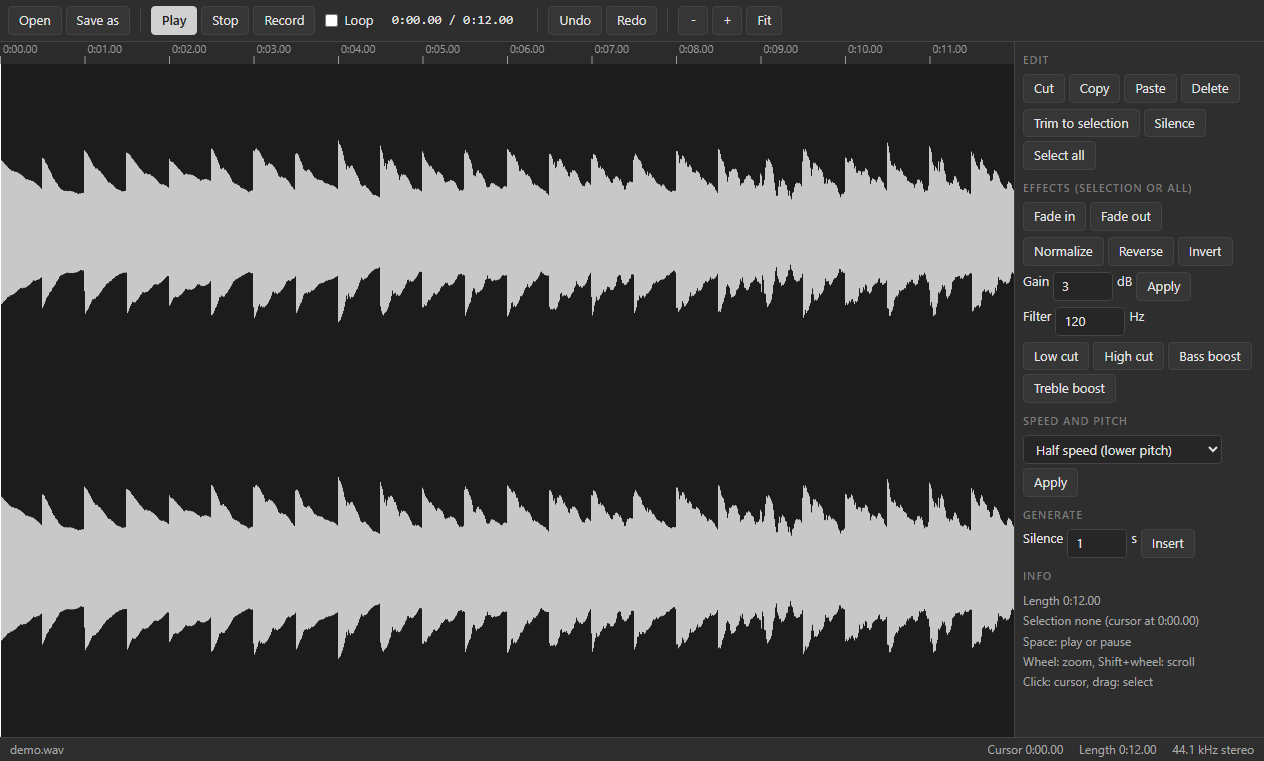
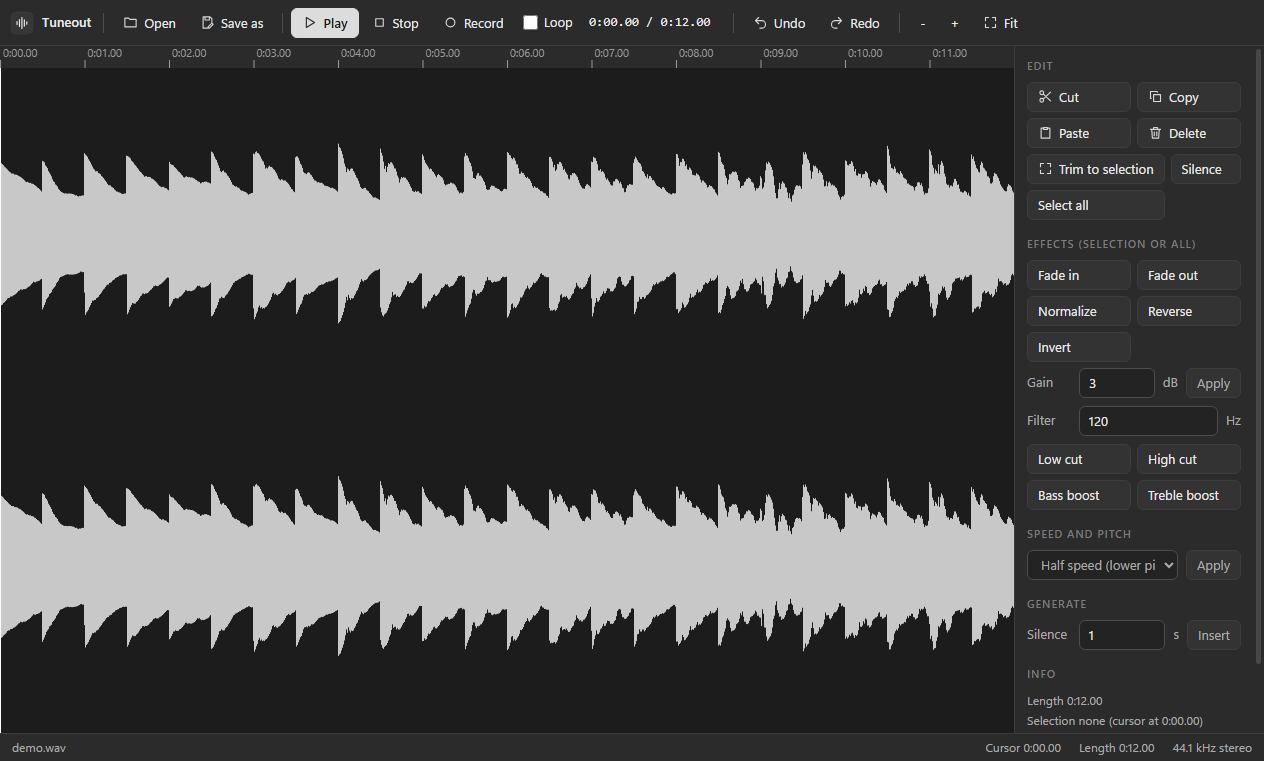
Tuneout 1.0.2: refreshed interface
Refreshed interface: line icons on every toolbar button, the app mark in the top bar, consistent control sizes and spacing, tidier side panels, and a toolbar that adapts to smaller windows. Also includes layout fixes and a fuller guide on the project page.

diff --git a/renderer/lookout.css b/renderer/lookout.css
@@ -1,62 +1,119 @@
-/* Lookout gray UI kit: flat, no glow, no gradients, no hue. */
+/* Lookout gray UI kit v2: flat, calm, no hue. Shared by every Lookout app. */
 :root{
-  --bg:#262626; --bg-2:#2e2e2e; --bg-3:#363636; --line:#444; --line-2:#555;
-  --text:#e4e4e4; --text-2:#a8a8a8; --text-3:#7c7c7c;
-  --accent:#d0d0d0; --accent-ink:#1c1c1c; --focus:#9a9a9a;
-  --radius:4px; --font:"Segoe UI",system-ui,-apple-system,sans-serif; --mono:Consolas,"Cascadia Mono",monospace;
+  --bg:#232323; --bg-2:#2b2b2b; --bg-3:#333333; --bg-4:#3b3b3b; --stage:#1c1c1c;
+  --line:#3d3d3d; --line-2:#4d4d4d; --line-3:#5c5c5c;
+  --text:#e8e8e8; --text-2:#ababab; --text-3:#7d7d7d;
+  --accent:#dcdcdc; --accent-ink:#1b1b1b; --focus:#a0a0a0;
+  --radius:6px; --h:30px;
+  --font:"Segoe UI Variable Text","Segoe UI",system-ui,-apple-system,sans-serif; --mono:Consolas,"Cascadia Mono",monospace;
 }
 *{box-sizing:border-box;margin:0;padding:0}
 html,body{height:100%;background:var(--bg);color:var(--text);font:13px/1.45 var(--font);overflow:hidden;user-select:none;-webkit-font-smoothing:antialiased}
 button,input,select,textarea{font:inherit;color:inherit}
 .app{display:grid;grid-template-rows:auto 1fr auto;height:100vh}
-.toolbar{display:flex;align-items:center;gap:4px;padding:6px 8px;background:var(--bg-2);border-bottom:1px solid var(--line);flex-wrap:wrap}
-.toolbar .sep{width:1px;align-self:stretch;background:var(--line);margin:2px 6px}
-.toolbar .grow{flex:1}
-.btn{background:var(--bg-3);border:1px solid var(--line);border-radius:var(--radius);padding:4px 10px;cursor:pointer;white-space:nowrap}
-.btn:hover{background:#404040;border-color:var(--line-2)}
+
+/* ---------- toolbar ---------- */
+.toolbar{display:flex;align-items:center;gap:2px;padding:7px 10px;min-height:46px;background:var(--bg-2);border-bottom:1px solid var(--line);flex-wrap:nowrap;overflow-x:auto;overflow-y:hidden;scrollbar-width:none}
+.toolbar::-webkit-scrollbar{height:0}
+.toolbar>*{flex-shrink:0}
+.toolbar .sep{width:1px;height:20px;align-self:center;background:var(--line-2);margin:0 6px}
+.toolbar .grow{flex:1 1 auto;min-width:8px}
+.toolbar input[type=text],.toolbar input[type=search]{width:170px}
+.brand{display:flex;align-items:center;gap:8px;padding-right:6px;margin-right:4px;font-weight:600;font-size:13px;color:var(--text)}
+.brand img{width:24px;height:24px;border-radius:6px;display:block}
+.brand+.sep{margin-left:0}
+
+/* ---------- buttons ---------- */
+.btn{display:inline-flex;align-items:center;justify-content:center;gap:6px;height:var(--h);padding:0 10px;background:var(--bg-3);border:1px solid var(--line);border-radius:var(--radius);cursor:pointer;white-space:nowrap;line-height:1;transition:background .08s,border-color .08s}
+.btn:hover{background:var(--bg-4);border-color:var(--line-2)}
 .btn:active{background:#2a2a2a}
-.btn:focus-visible,input:focus-visible,select:focus-visible,textarea:focus-visible,[tabindex]:focus-visible{outline:1px solid var(--focus);outline-offset:1px}
+.btn:focus-visible,input:focus-visible,select:focus-visible,textarea:focus-visible,[tabindex]:focus-visible{outline:2px solid var(--focus);outline-offset:1px}
 .btn.primary{background:var(--accent);color:var(--accent-ink);border-color:var(--accent);font-weight:600}
-.btn.primary:hover{background:#e0e0e0}
-.btn.on{background:#4a4a4a;border-color:var(--line-2)}
-.btn[disabled]{opacity:.4;pointer-events:none}
-.btn.icon{padding:4px 8px;min-width:30px;text-align:center}
-input[type=text],input[type=number],input[type=search],select,textarea{background:var(--bg);border:1px solid var(--line);border-radius:var(--radius);padding:4px 8px;user-select:text}
-input[type=range]{accent-color:#bdbdbd}
-input[type=color]{border:1px solid var(--line);background:var(--bg);width:28px;height:24px;padding:1px;border-radius:var(--radius)}
-label.field{display:flex;flex-direction:column;gap:3px;color:var(--text-2);font-size:12px}
-.main{display:flex;min-height:0}
-.sidebar{width:220px;background:var(--bg-2);border-right:1px solid var(--line);overflow:auto;padding:8px;flex-shrink:0}
-.sidebar.right{border-right:0;border-left:1px solid var(--line);width:250px}
-.sidebar h3,.panel-title{font-size:11px;text-transform:uppercase;letter-spacing:.08em;color:var(--text-3);margin:10px 0 6px;font-weight:600}
+.btn.primary:hover{background:#ececec;border-color:#ececec}
+.btn.on{background:#4a4a4a;border-color:var(--line-3);box-shadow:inset 0 0 0 1px #6a6a6a}
+.btn[disabled]{opacity:.38;pointer-events:none}
+.btn.icon{padding:0;width:var(--h);min-width:var(--h)}
+.btn .ic{width:15px;height:15px;flex-shrink:0;display:block;opacity:.92}
+.toolbar .btn:not(.primary):not(.on){background:transparent;border-color:transparent}
+.toolbar .btn:not(.primary):not(.on):hover{background:var(--bg-4);border-color:var(--line-2)}
+
+.toolbar.c1 .btn.minor:not(.primary):has(> svg.ic),.toolbar.c2 .btn:not(.primary):has(> svg.ic),.toolbar.c3 .btn:has(> svg.ic){font-size:0;gap:0;width:var(--h);padding:0}
+.toolbar.c2 .brand span{display:none}
+.toolbar.c2 input[type=text],.toolbar.c2 input[type=search]{width:120px}
+
+/* ---------- fields ---------- */
+input[type=text],input[type=number],input[type=search],input[type=date],select,textarea{background:var(--bg);border:1px solid var(--line-2);border-radius:var(--radius);padding:0 9px;height:var(--h);user-select:text;min-width:0}
+textarea{height:auto;padding:7px 9px;resize:vertical;line-height:1.45}
+select{padding-right:6px;cursor:pointer}
+input:hover,select:hover,textarea:hover{border-color:var(--line-3)}
+input[type=range]{accent-color:#c8c8c8;height:var(--h)}
+input[type=checkbox]{accent-color:#c8c8c8;width:15px;height:15px;cursor:pointer}
+input[type=color]{border:1px solid var(--line-2);background:var(--bg);width:30px;height:var(--h);padding:2px;border-radius:var(--radius)}
+label.field{display:flex;flex-direction:column;gap:4px;color:var(--text-2);font-size:12px}
+label.field>input,label.field>select,label.field>textarea{width:100%;color:var(--text);font-size:13px}
+
+/* ---------- layout ---------- */
+.main{display:flex;min-height:0;min-width:0}
+.sidebar{width:228px;background:var(--bg-2);border-right:1px solid var(--line);overflow:auto;padding:10px 12px 14px;flex-shrink:0}
+.sidebar.right{border-right:0;border-left:1px solid var(--line);width:272px}
+.sidebar h3,.panel-title{font-size:11px;text-transform:uppercase;letter-spacing:.08em;color:var(--text-3);margin:16px 0 8px;font-weight:600}
 .sidebar h3:first-child{margin-top:2px}
-.stage{flex:1;min-width:0;min-height:0;position:relative;background:#1f1f1f;overflow:auto}
-.status{display:flex;gap:16px;align-items:center;padding:3px 10px;background:var(--bg-2);border-top:1px solid var(--line);color:var(--text-2);font-size:12px}
+.sidebar input[type=text],.sidebar input[type=search],.sidebar select,.sidebar textarea{width:100%}
+.sidebar .row{flex-wrap:wrap}
+.sidebar .row>.btn{flex:1 1 auto}
+.sidebar .row>label.field{flex:1 1 0;min-width:0}
+.sidebar label.field{margin-bottom:10px}
+.sidebar .btn{width:auto}
+.sidebar>.btn{width:100%;margin-bottom:6px}
+.stage{flex:1;min-width:0;min-height:0;position:relative;background:var(--stage);overflow:auto}
+.status{display:flex;gap:18px;align-items:center;height:28px;padding:0 12px;background:var(--bg-2);border-top:1px solid var(--line);color:var(--text-2);font-size:12px;white-space:nowrap;overflow:hidden}
 .status .grow{flex:1}
 .list{display:flex;flex-direction:column;gap:2px}
-.list .item{padding:5px 8px;border-radius:var(--radius);cursor:pointer;border:1px solid transparent;display:flex;gap:6px;align-items:center}
+.list .item{padding:6px 8px;border-radius:var(--radius);cursor:pointer;border:1px solid transparent;display:flex;gap:6px;align-items:center;min-height:30px}
 .list .item:hover{background:var(--bg-3)}
-.list .item.sel{background:#444;border-color:var(--line-2)}
+.list .item.sel{background:var(--bg-4);border-color:var(--line-2)}
 .row{display:flex;gap:6px;align-items:center}
+.grow{flex:1 1 auto;min-width:0}
+.brow{display:grid;grid-template-columns:1fr 1fr;gap:6px;margin-bottom:6px}
+.brow>.btn{justify-content:flex-start}
+.frow{display:flex;align-items:center;gap:8px;margin-bottom:8px;color:var(--text-2)}
+.frow>input[type=text],.frow>input[type=number]{flex:1;color:var(--text)}
+.frow>span:first-child{min-width:44px}
+.frow>select{flex:1;min-width:0}
+.sidebar input[type=range]{width:100%}
+.sidebar .swatches{margin-bottom:10px}
+.list .item .btn{height:24px!important;width:26px!important;padding:0!important;font-size:0!important;gap:0;background:transparent;border-color:transparent;opacity:.55}
+.list .item:hover .btn,.list .item.sel .btn{opacity:1}
+.list .item .btn:hover{background:var(--bg-4);border-color:var(--line-2)}
 .col{display:flex;flex-direction:column;gap:6px}
 .muted{color:var(--text-2)}
-.empty{position:absolute;inset:0;display:flex;flex-direction:column;align-items:center;justify-content:center;gap:10px;color:var(--text-3);text-align:center;padding:20px}
-.empty .big{font-size:18px;color:var(--text-2)}
-.modal-back{position:fixed;inset:0;background:rgba(0,0,0,.55);display:flex;align-items:center;justify-content:center;z-index:50}
-.modal{background:var(--bg-2);border:1px solid var(--line-2);border-radius:6px;min-width:340px;max-width:80vw;max-height:85vh;overflow:auto;padding:16px;display:flex;flex-direction:column;gap:12px}
-.modal h2{font-size:15px;font-weight:600}
-.toast{position:fixed;left:50%;bottom:34px;transform:translateX(-50%);background:var(--bg-3);border:1px solid var(--line-2);padding:7px 14px;border-radius:var(--radius);z-index:60}
-.progress{height:6px;background:var(--bg);border:1px solid var(--line);border-radius:3px;overflow:hidden}
-.progress>i{display:block;height:100%;background:var(--accent);width:0}
-table.grid{border-collapse:collapse;width:100%}
-table.grid th,table.grid td{border:1px solid var(--line);padding:4px 8px;text-align:left}
-table.grid th{background:var(--bg-2);color:var(--text-2);font-weight:600}
-::-webkit-scrollbar{width:11px;height:11px}
-::-webkit-scrollbar-thumb{background:#4a4a4a;border:2px solid var(--bg);border-radius:6px}
-::-webkit-scrollbar-track{background:var(--bg)}
-.swatches{display:flex;flex-wrap:wrap;gap:4px}
-.swatches button{width:22px;height:22px;border:1px solid var(--line-2);border-radius:3px;cursor:pointer;padding:0}
-.swatches button.on{outline:2px solid var(--accent);outline-offset:1px}
-.progress>div{display:block;height:100%;background:var(--accent)}
-table.grid tr.sel td{background:#3a3a3a}
+.empty{position:absolute;inset:0;display:flex;flex-direction:column;align-items:center;justify-content:center;gap:12px;color:var(--text-3);text-align:center;padding:24px}
+.empty .big{font-size:18px;color:var(--text-2);font-weight:600}
+
+/* ---------- overlays ---------- */
+.modal-back{position:fixed;inset:0;background:rgba(0,0,0,.6);display:flex;align-items:center;justify-content:center;z-index:50}
+.modal{background:var(--bg-2);border:1px solid var(--line-2);border-radius:10px;min-width:360px;max-width:80vw;max-height:85vh;overflow:auto;padding:20px;display:flex;flex-direction:column;gap:14px;box-shadow:0 18px 50px rgba(0,0,0,.5)}
+.modal h2{font-size:16px;font-weight:600}
+.toast{position:fixed;left:50%;bottom:40px;transform:translateX(-50%);background:var(--bg-4);border:1px solid var(--line-3);padding:9px 16px;border-radius:8px;z-index:60;box-shadow:0 8px 24px rgba(0,0,0,.4)}
+.progress{height:6px;background:var(--bg);border:1px solid var(--line);border-radius:4px;overflow:hidden}
+.progress>i,.progress>div{display:block;height:100%;background:var(--accent);width:0}
+
+/* ---------- tables ---------- */
+table.grid{border-collapse:separate;border-spacing:0;width:100%}
+table.grid th,table.grid td{border-bottom:1px solid var(--line);padding:0 12px;height:38px;text-align:left;vertical-align:middle}
+table.grid th{background:var(--bg-2);color:var(--text-2);font-weight:600;font-size:12px;position:sticky;top:0;z-index:1;height:34px}
+table.grid tbody tr:hover td{background:#262626}
+table.grid tr.sel td{background:#353535}
 table.grid tbody tr{cursor:default}
+table.grid td .btn{height:26px;margin-left:8px;vertical-align:middle}
+table.grid td{white-space:nowrap}
+
+/* ---------- misc ---------- */
+::-webkit-scrollbar{width:11px;height:11px}
+::-webkit-scrollbar-thumb{background:#474747;border:3px solid transparent;background-clip:padding-box;border-radius:8px}
+::-webkit-scrollbar-thumb:hover{background:#5a5a5a;background-clip:padding-box;border:3px solid transparent}
+::-webkit-scrollbar-track,::-webkit-scrollbar-corner{background:transparent}
+.swatches{display:flex;flex-wrap:wrap;gap:6px}
+.swatches button{width:24px;height:24px;border:1px solid var(--line-3);border-radius:5px;cursor:pointer;padding:0}
+.swatches button.on{outline:2px solid var(--accent);outline-offset:2px}
+kbd{font-family:var(--mono);font-size:11px;background:var(--bg-3);border:1px solid var(--line-2);border-bottom-width:2px;border-radius:4px;padding:0 5px}

diff --git a/renderer/kit.js b/renderer/kit.js
@@ -1,0 +1,137 @@
+// Lookout UI kit: adds the app mark to the toolbar and monochrome line icons to buttons.
+// Purely visual. Buttons keep their text, so nothing else changes.
+(function () {
+  'use strict';
+  const NS = 'http://www.w3.org/2000/svg';
+  const P = {
+    plus: 'M12 5v14M5 12h14',
+    file: 'M14 3H6v18h12V7zM14 3v4h4M12 11v6M9 14h6',
+    folder: 'M3 7V5h6l2 2h10v12H3z',
+    save: 'M5 3h11l3 3v15H5zM8 3v5h7V3M8 21v-7h8v7',
+    saveas: 'M5 3h11l3 3v6M5 3v18h7M8 3v5h7V3M15 21l6-6-2-2-6 6v2z',
+    undo: 'M9 14L4 9l5-5M4 9h10a6 6 0 010 12h-3',
+    redo: 'M15 14l5-5-5-5M20 9H10a6 6 0 000 12h3',
+    trash: 'M4 7h16M10 11v6M14 11v6M6 7l1 14h10l1-14M9 7V4h6v3',
+    copy: 'M9 9h11v11H9zM5 15H4V4h11v1',
+    paste: 'M9 4h6v3H9zM8 5H5v16h14V5h-3',
+    dup: 'M8 8h12v12H8zM4 16V4h12M14 11v6M11 14h6',
+    download: 'M12 4v11M7 10l5 5 5-5M5 20h14',
+    fit: 'M4 9V4h5M15 4h5v5M20 15v5h-5M9 20H4v-5',
+    play: 'M7 4l13 8-13 8z',
+    stop: 'M6 6h12v12H6z',
+    pause: 'M7 5h3v14H7zM14 5h3v14h-3z',
+    rec: 'M12 5a7 7 0 100 14 7 7 0 000-14z',
+    scissors: 'M6 9a3 3 0 100-6 3 3 0 000 6zM6 21a3 3 0 100-6 3 3 0 000 6zM8.2 7.8L20 19M8.2 16.2L20 5',
+    pointer: 'M5 3l14 7-6 2-2 6z',
+    hand: 'M8 13V6a1.5 1.5 0 013 0v5M11 11V4.5a1.5 1.5 0 013 0V11M14 11V6a1.5 1.5 0 013 0v8a7 7 0 01-7 7 6 6 0 01-5-3l-2.5-4.5a1.5 1.5 0 012.6-1.5L8 15',
+    connector: 'M5 19L19 5M13 5h6v6',
+    frame: 'M7 3v18M17 3v18M3 7h18M3 17h18',
+    rect: 'M4 6h16v12H4z',
+    ellipse: 'M12 5c4.4 0 8 3.1 8 7s-3.6 7-8 7-8-3.1-8-7 3.6-7 8-7z',
+    line: 'M5 19L19 5',
+    text: 'M5 6V4h14v2M12 4v16M9 20h6',
+    highlight: 'M14 4l6 6-8 8H6v-6zM4 21h16',
+    pen: 'M4 20l4-1 11-11-3-3L5 16zM14 7l3 3',
+    redact: 'M4 8h16v8H4z',
+    sign: 'M3 17c3-6 5-9 7-9 3 0-2 9 1 9 2 0 3-3 5-3s1 3 5 3M3 21h18',
+    eraser: 'M8 20l-4-4 10-10 6 6-10 8zM12 20h8',
+    search: 'M11 4a7 7 0 100 14 7 7 0 000-14zM16 16l5 5',
+    list: 'M9 6h11M9 12h11M9 18h11M4 6h.01M4 12h.01M4 18h.01',
+    child: 'M5 4v8a3 3 0 003 3h11M15 11l4 4-4 4',
+    sibling: 'M5 6h14M5 12h14M12 15v6M9 18h6',
+    collapse: 'M6 9l6 6 6-6',
+    expand: 'M7 14l5-5 5 5',
+    calendar: 'M4 6h16v14H4zM4 10h16M8 3v5M16 3v5',
+    diamond: 'M12 3l9 9-9 9-9-9z',
+    up: 'M12 19V5M6 11l6-6 6 6',
+    down: 'M12 5v14M6 13l6 6 6-6',
+    refresh: 'M20 11a8 8 0 10-2.3 5.7M20 4v7h-7',
+    check: 'M4 12l5 5L20 6',
+    convert: 'M4 8h13M13 4l4 4-4 4M20 16H7M11 12l-4 4 4 4',
+    eye: 'M2 12s4-7 10-7 10 7 10 7-4 7-10 7S2 12 2 12zM12 9a3 3 0 100 6 3 3 0 000-6z',
+    info: 'M12 3a9 9 0 100 18 9 9 0 000-18zM12 11v6M12 7.5h.01',
+    front: 'M8 8h12v12H8zM4 4h10v3M4 4v10h3',
+    back: 'M4 4h12v12H4zM20 8v12H8v-4',
+    merge: 'M6 3v6a6 6 0 006 6h6M15 12l3 3-3 3M6 21v-4',
+    rotl: 'M4 10a8 8 0 112 6M4 4v6h6',
+    rotr: 'M20 10a8 8 0 10-2 6M20 4v6h-6',
+    blank: 'M6 3h12v18H6z',
+    extract: 'M14 3H6v18h12V7zM14 3v4h4M12 10v7M9 14l3 3 3-3',
+    mic: 'M12 3a3 3 0 00-3 3v6a3 3 0 006 0V6a3 3 0 00-3-3zM6 11a6 6 0 0012 0M12 17v4',
+    clear: 'M6 6l12 12M18 6L6 18',
+    gaps: 'M3 6v12M21 6v12M7 12h10M10 9l-3 3 3 3M14 9l3 3-3 3',
+    title: 'M4 5h16v14H4zM8 9h8M12 9v7',
+    dashed: 'M4 12h3M10 12h4M17 12h3',
+    arrow: 'M4 12h15M14 7l5 5-5 5',
+    elbow: 'M4 6h8v12h8',
+    label: 'M3 12l6-7h12v14H9zM8 12h.01',
+    image: 'M4 5h16v14H4zM4 16l5-5 4 4 3-3 4 4M15 9h.01',
+    vector: 'M5 19L12 5l7 14M8 13h8M3 19h4M17 19h4',
+    table: 'M4 5h16v14H4zM4 10h16M4 15h16M10 5v14',
+    lock: 'M6 11h12v9H6zM8 11V8a4 4 0 018 0v3',
+    unlock: 'M6 11h12v9H6zM8 11V8a4 4 0 017.5-2',
+    eyeoff: 'M3 3l18 18M10.6 6.1A10 10 0 0112 6c6 0 10 6 10 6a17 17 0 01-3 3.6M6.6 6.6C3.8 8.3 2 12 2 12s4 7 10 7a9.7 9.7 0 004.4-1',
+  };
+  const MAP = {
+    'New': 'file', 'Open': 'folder', 'Open project': 'folder', 'Open file': 'folder', 'Save': 'save', 'Save project': 'save', 'Save as': 'saveas',
+    'Undo': 'undo', 'Redo': 'redo', 'Delete': 'trash', 'Delete clip': 'trash', 'Remove selected': 'trash', 'Copy': 'copy', 'Paste': 'paste', 'Duplicate': 'dup',
+    'Export PNG': 'image', 'Export SVG': 'vector', 'Export CSV': 'table', 'Export': 'download', 'Export page as PNG': 'download', 'Extract all text': 'text',
+    'Fit': 'fit', 'Play': 'play', 'Stop': 'stop', 'Pause': 'pause', 'Resume': 'play', 'Record': 'rec', 'Split': 'scissors', 'Split here': 'scissors',
+    'Select': 'pointer', 'Move': 'pointer', 'Hand': 'hand', 'Connector': 'connector', 'Frame': 'frame', 'Rectangle': 'rect', 'Box': 'rect', 'Ellipse': 'ellipse', 'Line': 'line', 'Text': 'text',
+    'Highlight': 'highlight', 'Pen': 'pen', 'Redact': 'redact', 'Sign': 'sign', 'Erase': 'eraser', 'Preview': 'eye', 'Outline': 'list',
+    'Add child': 'child', 'Add sibling': 'sibling', 'Edit': 'pen', 'Collapse': 'collapse', 'Expand all': 'expand', 'Today': 'calendar',
+    'Add task': 'plus', 'Add milestone': 'diamond', 'Move up': 'up', 'Move down': 'down', 'Up': 'up', 'Down': 'down',
+    'Import media': 'plus', 'Add files': 'plus', 'Output folder': 'folder', 'Convert all': 'convert', 'Clear finished': 'clear', 'Show': 'folder', 'Show in folder': 'folder',
+    'Check file': 'check', 'Repair to new file': 'download', 'Refresh sources': 'refresh', 'Start recording': 'rec', 'Stop and review': 'stop', 'New recording': 'rec',
+    'Check for updates': 'refresh', 'Info': 'info', 'Merge': 'merge', 'Rotate L': 'rotl', 'Rotate R': 'rotr', 'Blank': 'blank', 'Extract': 'extract',
+    'Front': 'front', 'Back': 'back', 'Close gaps': 'gaps', 'Title text': 'title', 'Dashed': 'dashed', 'Arrow on/off': 'arrow', 'Straight / Elbow': 'elbow', 'Edit label': 'label',
+    'Cut': 'scissors', 'Trim to selection': 'fit', 'Locate missing files': 'search',
+  };
+  const LMAP = { 'Hide': 'eye', 'Show': 'eyeoff', 'Lock': 'unlock', 'Unlock': 'lock' };
+  function icon(name) {
+    const s = document.createElementNS(NS, 'svg');
+    s.setAttribute('viewBox', '0 0 24 24'); s.setAttribute('class', 'ic'); s.setAttribute('aria-hidden', 'true');
+    s.setAttribute('fill', 'none'); s.setAttribute('stroke', 'currentColor'); s.setAttribute('stroke-width', '1.8');
+    s.setAttribute('stroke-linecap', 'round'); s.setAttribute('stroke-linejoin', 'round');
+    const p = document.createElementNS(NS, 'path'); p.setAttribute('d', P[name]); s.append(p);
+    return s;
+  }
+  function decorate(b) {
+    if (b.tagName !== 'BUTTON' || !b.classList.contains('btn')) return;
+    const label = (b.textContent || '').trim();
+    const name = (b.closest('.list') && LMAP[label]) || MAP[label];
+    const cur = b.querySelector(':scope > svg.ic');
+    if (cur && cur.dataset.for === label) return;
+    if (cur) cur.remove();
+    if (!name) return;
+    const s = icon(name); s.dataset.for = label; b.prepend(s);
+    if (!b.title) b.title = label;
+  }
+  function brand(bar) {
+    if (!bar || bar.querySelector(':scope > .brand') || (document.title && (bar.textContent || '').includes(document.title))) return;
+    const name = document.title || '';
+    const d = document.createElement('div'); d.className = 'brand';
+    const img = document.createElement('img'); img.src = 'brand.svg'; img.alt = '';
+    const t = document.createElement('span'); t.textContent = name;
+    d.append(img, t);
+    const sep = document.createElement('span'); sep.className = 'sep';
+    bar.prepend(d, sep);
+  }
+  const MINOR = new Set(['New', 'Open', 'Undo', 'Redo', 'Copy', 'Paste', 'Duplicate', 'Delete', 'Front', 'Back', 'Fit', 'Hand', 'Merge', 'Move up', 'Move down', 'Today', 'Cut', 'Dashed', 'Arrow on/off', 'Straight / Elbow', 'Edit label', 'Output folder', 'Remove selected', 'Clear finished', 'Refresh sources', 'Stop', 'Collapse', 'Expand all', 'Select', 'Move']);
+  function fitBar(bar) {
+    bar.classList.remove('c1', 'c2', 'c3');
+    bar.querySelectorAll(':scope > .btn').forEach((b) => b.classList.toggle('minor', MINOR.has((b.textContent || '').trim())));
+    for (const c of ['c1', 'c2', 'c3']) { if (bar.scrollWidth <= bar.clientWidth + 1) break; bar.classList.add(c); }
+  }
+  window.addEventListener('resize', () => { const bar = document.querySelector('.app > .toolbar'); if (bar) fitBar(bar); });
+  let queued = false;
+  function sweep() {
+    queued = false;
+    document.querySelectorAll('.btn').forEach(decorate);
+    const bar = document.querySelector('.app > .toolbar');
+    if (bar && bar.children.length) { brand(bar); fitBar(bar); }
+  }
+  const mo = new MutationObserver(() => { if (!queued) { queued = true; requestAnimationFrame(sweep); } });
+  function start() { mo.observe(document.body, { childList: true, subtree: true, characterData: true }); sweep(); }
+  if (document.readyState === 'loading') document.addEventListener('DOMContentLoaded', start); else start();
+})();

diff --git a/renderer/app.js b/renderer/app.js
@@ -50,7 +50,7 @@ toolbar.append(btn('Open', openAudio), btn('Save as', exportAudio), h('span', { 
 function renderRight() {
   right.textContent = '';
   const sect = (t) => right.append(h('h3', { text: t }));
-  const row = (...b) => right.append(h('div', { style: 'display:flex;flex-wrap:wrap;gap:4px;margin-bottom:6px' }, ...b));
+  const row = (...b) => right.append(h('div', { class: b.every((x) => x && x.tagName === 'BUTTON') ? 'brow' : 'frow' }, ...b));
   sect('Edit');
   row(btn('Cut', cut), btn('Copy', copy), btn('Paste', paste), btn('Delete', del));
   row(btn('Trim to selection', trim), btn('Silence', () => apply('Silence', (d) => d.fill(0))), btn('Select all', () => { sel = { a: 0, b: N() }; draw(); renderStatus(); }));

diff --git a/renderer/index.html b/renderer/index.html
@@ -10,6 +10,7 @@
 </head>
 <body>
 <div class="app" id="app"></div>
+<script src="kit.js"></script>
 <script src="app.js"></script>
 </body>
 </html>

diff --git a/README.md b/README.md
@@ -1,6 +1,6 @@
 <p align="center"><img src="screenshots/banner.png" alt="Tuneout" width="100%"></p>
 
-<p align="center"><b>Record and edit audio</b><br>Version 1.0.1 for Windows · Free · Offline · No account</p>
+<p align="center"><b>Record and edit audio</b><br>Version 1.0.2 for Windows · Free · Offline · No account</p>
 
 <p align="center"><a href="https://github.com/plawanpawin-byte/tuneout/releases/latest"><b>Download Tuneout</b></a> · <a href="https://github.com/plawanpawin-byte/Lookout">All Lookout apps</a></p>
 
@@ -11,6 +11,12 @@ Tuneout is an audio editor. See your sound as a waveform, select a part with the
 **Made for:** Podcasts, voice notes, music clips, ringtones and cleaning up recordings.
 
 ![Tuneout](screenshots/01-waveform.png)
+
+**On this page:** [Screenshots](#see-it-in-action) · [Interface](#the-interface) · [Features](#everything-it-can-do) · [How to use it](#how-to-use-it) · [Shortcuts](#keyboard-shortcuts) · [Formats](#files-and-formats) · [Privacy](#private-by-design) · [Install](#install) · [Questions](#questions)
+
+## What is new in 1.0.2
+
+A refreshed interface: every toolbar button now has a clear line icon, the app's mark sits at the top left, controls share one height and spacing, panels line up in tidy grids, and the toolbar keeps every button reachable on smaller windows by switching less important buttons to icons.
 
 ## See it in action
 
@@ -43,6 +49,12 @@ Low cut, high cut, bass boost and treble boost at a frequency you choose.
 ![Saving](screenshots/05-export-dialog.png)
 
 Choose the format and save.
+
+## The interface
+
+- **Top bar:** open, save, play, stop, record, loop, the time readout, undo and redo, and zoom.
+- **Centre:** the waveform of each channel under a time ruler; drag to select.
+- **Right panel:** edit commands, effects, filters, speed, silence and information about the file and selection.
 
 ## Everything it can do
 
@@ -125,5 +137,15 @@ Edits happen in memory and can be undone until you save a file.
 ## About Lookout
 
 Tuneout belongs to the **[Lookout](https://github.com/plawanpawin-byte/Lookout)** family: ten small, private Windows apps for documents and media, all with the same calm grey look and the same promise that your files stay yours. Install and update them together with the [Lookout launcher](https://github.com/plawanpawin-byte/lookout-launcher).
+
+- **[Pageout](https://github.com/plawanpawin-byte/pageout)**: read, annotate and sign pdfs
+- **[Chartout](https://github.com/plawanpawin-byte/chartout)**: flowcharts and diagrams
+- **[Branchout](https://github.com/plawanpawin-byte/branchout)**: mind maps and outlines
+- **[Planout](https://github.com/plawanpawin-byte/planout)**: plans and gantt timelines
+- **[Frameout](https://github.com/plawanpawin-byte/frameout)**: screen design and prototypes
+- **[Cutout](https://github.com/plawanpawin-byte/cutout)**: video editing on a timeline
+- **[Shiftout](https://github.com/plawanpawin-byte/shiftout)**: convert and compress media
+- **[Castout](https://github.com/plawanpawin-byte/castout)**: record your screen
+- **[Mendout](https://github.com/plawanpawin-byte/mendout)**: repair damaged media
 
 Released under the MIT License.
